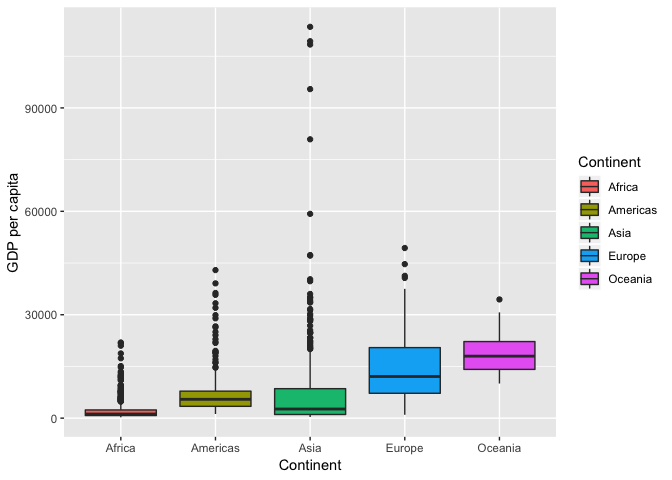
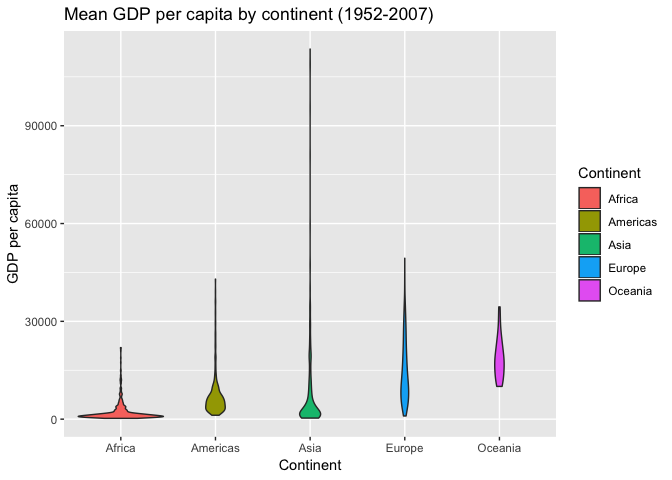
Finish assignment

diff --git a/Homework3CarolineSeip.md b/Homework3CarolineSeip.md
@@ -10,10 +10,17 @@ Table of contents
 -   Loading packages
 -   Task 1: Get the maximum and minimum of GDP per capita for all continents
 -   Task 2: How is life expectancy changing over time on different continents?
--   Task 3
--   But I want to do more!
+-   Task 3: Compute a weighted mean of life expectancy for different years
 
-First let's load the dataset, tidyverse and knitr
+Introduction
+============
+
+In this document we will explore the gapminder dataset by creating tables and figures of the relationships between different variables in the dataset. In the first task, we will find the maximum and minimum values of GDP per capita for each continent, and visualize the spread of GDP per capita values for each continent. For task 2 we will view how life expectancy for each continent have changed over time, and visualize this change using a line graph. In the final task we will compute a weighted mean of life expectancy for each year of data collection, weighted by the population of each country. We will then visualize what this looks like using a line graph.
+
+Loading packages
+================
+
+First let's load the dataset, tidyverse and knitr.
 
 ``` r
 #Load gapminder dataset
@@ -22,14 +29,14 @@ library(gapminder)
 library(tidyverse)
 ```
 
-    ## ── Attaching packages ─────────────────────────────── tidyverse 1.2.1 ──
+    ## ── Attaching packages ──────────────────────────────────────────── tidyverse 1.2.1 ──
 
     ## ✔ ggplot2 3.0.0     ✔ purrr   0.2.5
     ## ✔ tibble  1.4.2     ✔ dplyr   0.7.6
     ## ✔ tidyr   0.8.1     ✔ stringr 1.3.1
     ## ✔ readr   1.1.1     ✔ forcats 0.3.0
 
-    ## ── Conflicts ────────────────────────────────── tidyverse_conflicts() ──
+    ## ── Conflicts ─────────────────────────────────────────────── tidyverse_conflicts() ──
     ## ✖ dplyr::filter() masks stats::filter()
     ## ✖ dplyr::lag()    masks stats::lag()
 
@@ -41,22 +48,16 @@ library(knitr)
 Task 1: Get the maximum and minimum of GDP per capita for all continents
 ========================================================================
 
+Let's make a table of the minimum and maximum values of GDP per capita for each continent.
+
 ``` r
 #Use the gapminder dataset
 a <- gapminder %>% 
   #Group by continent
   group_by(continent) %>%
-  #Use mutate and summarize to create minimum and maximum variables
-  mutate_each(funs(round(.,2)), gdpPercap) %>% 
+  #Calculate the minimum and maximum GDP per capita for each continent
   summarize(min=min(gdpPercap),
             max=max(gdpPercap))
-```
-
-    ## `mutate_each()` is deprecated.
-    ## Use `mutate_all()`, `mutate_at()` or `mutate_if()` instead.
-    ## To map `funs` over a selection of variables, use `mutate_at()`
-
-``` r
 #Now put this into a table using the 'kable' function
 a %>% 
 kable(col.names = c("Continent", "Minimum GDP per capita", "Maximum GDP per capita"))
@@ -64,13 +65,13 @@ kable(col.names = c("Continent", "Minimum GDP per capita", "Maximum GDP per capi
 
 | Continent |  Minimum GDP per capita|  Maximum GDP per capita|
 |:----------|-----------------------:|-----------------------:|
-| Africa    |                  241.17|                21951.21|
-| Americas  |                 1201.64|                42951.65|
-| Asia      |                  331.00|               113523.13|
-| Europe    |                  973.53|                49357.19|
-| Oceania   |                10039.60|                34435.37|
+| Africa    |                241.1659|                21951.21|
+| Americas  |               1201.6372|                42951.65|
+| Asia      |                331.0000|               113523.13|
+| Europe    |                973.5332|                49357.19|
+| Oceania   |              10039.5956|                34435.37|
 
-Ok, now let's do a check to make sure that went right... let's look at the minimum GDP per capita for Oceania
+Ok, now let's do a check to make sure that went right... let's look at the minimum GDP per capita for Oceania as a check.
 
 ``` r
 #Use the gapminder dataset
@@ -98,48 +99,181 @@ gapminder %>%
 
 Yay it's right! We can see the GDP per capita for Australia in 1952 is 10040, which matches up with the summarize function we used to find the minimum GDP per capita in Oceania.
 
-Let's do a visual check by making a box plot to see the minimum and maximum values of GDP per capita by continent:
+Let's do a visual check by making a violin plot to see the minimum and maximum values of GDP per capita by continent:
 
 ``` r
   #Use ggplot, specify your dataset and aesthetics(x,y)
 ggplot(gapminder, aes(continent, gdpPercap)) +
   #Add a boxplot
-  geom_boxplot(aes(fill=continent)) +
+  geom_violin(aes(fill=continent)) +
   #Label the axes
   xlab("Continent") +
   ylab("GDP per capita") +
-  guides(fill=guide_legend(title= "Continent"))
+  #Change the legend title
+  guides(fill=guide_legend(title= "Continent")) +
+  #Add a title
+  ggtitle("Mean GDP per capita by continent (1952-2007)")
 ```
 
 ![](Homework3CarolineSeip_files/figure-markdown_github/unnamed-chunk-4-1.png)
 
+Here we can see again that the minimum GDP per capita value for Oceania is around the 10,000 line. The violin plot gives us a good idea of the spread of our data, because we can see how much data is at each level of GDP per capita, unlike with a box plot.
+
 Task 2: How is life expectancy changing over time on different continents?
 ==========================================================================
 
+First let's make a table of life expectancy values averaged by continent for each year.
+
 ``` r
 #Use the gapminder dataset
-long <- gapminder %>% 
+gapminder %>% 
   #Select the continent, year, and life expectancy variables
    select(continent, year, lifeExp) %>% 
   #Group by continent and year
   group_by(continent, year) %>% 
   #Find mean life expectancy for each continent, in each year
-  summarize(life = mean(lifeExp))
-
-wide <- spread(long, year, life)
-
-colnames(wide) <- c("continent", "first", "last")
+  summarize(life = mean(lifeExp)) %>% 
+#Use kable to make a table
+  kable(col.names = c("Continent", "Year", "Mean life expectancy"))
 ```
 
+| Continent |  Year|  Mean life expectancy|
+|:----------|-----:|---------------------:|
+| Africa    |  1952|              39.13550|
+| Africa    |  1957|              41.26635|
+| Africa    |  1962|              43.31944|
+| Africa    |  1967|              45.33454|
+| Africa    |  1972|              47.45094|
+| Africa    |  1977|              49.58042|
+| Africa    |  1982|              51.59287|
+| Africa    |  1987|              53.34479|
+| Africa    |  1992|              53.62958|
+| Africa    |  1997|              53.59827|
+| Africa    |  2002|              53.32523|
+| Africa    |  2007|              54.80604|
+| Americas  |  1952|              53.27984|
+| Americas  |  1957|              55.96028|
+| Americas  |  1962|              58.39876|
+| Americas  |  1967|              60.41092|
+| Americas  |  1972|              62.39492|
+| Americas  |  1977|              64.39156|
+| Americas  |  1982|              66.22884|
+| Americas  |  1987|              68.09072|
+| Americas  |  1992|              69.56836|
+| Americas  |  1997|              71.15048|
+| Americas  |  2002|              72.42204|
+| Americas  |  2007|              73.60812|
+| Asia      |  1952|              46.31439|
+| Asia      |  1957|              49.31854|
+| Asia      |  1962|              51.56322|
+| Asia      |  1967|              54.66364|
+| Asia      |  1972|              57.31927|
+| Asia      |  1977|              59.61056|
+| Asia      |  1982|              62.61794|
+| Asia      |  1987|              64.85118|
+| Asia      |  1992|              66.53721|
+| Asia      |  1997|              68.02052|
+| Asia      |  2002|              69.23388|
+| Asia      |  2007|              70.72848|
+| Europe    |  1952|              64.40850|
+| Europe    |  1957|              66.70307|
+| Europe    |  1962|              68.53923|
+| Europe    |  1967|              69.73760|
+| Europe    |  1972|              70.77503|
+| Europe    |  1977|              71.93777|
+| Europe    |  1982|              72.80640|
+| Europe    |  1987|              73.64217|
+| Europe    |  1992|              74.44010|
+| Europe    |  1997|              75.50517|
+| Europe    |  2002|              76.70060|
+| Europe    |  2007|              77.64860|
+| Oceania   |  1952|              69.25500|
+| Oceania   |  1957|              70.29500|
+| Oceania   |  1962|              71.08500|
+| Oceania   |  1967|              71.31000|
+| Oceania   |  1972|              71.91000|
+| Oceania   |  1977|              72.85500|
+| Oceania   |  1982|              74.29000|
+| Oceania   |  1987|              75.32000|
+| Oceania   |  1992|              76.94500|
+| Oceania   |  1997|              78.19000|
+| Oceania   |  2002|              79.74000|
+| Oceania   |  2007|              80.71950|
+
+This table allows us to look at the exact value for any given year, but it is not great for visualizing the change in life expectancy over time. Let's make a line graph now so that we can visualize this change.
+
 ``` r
+#Use the gapminder dataset
 gapminder %>%
+  #Indicate ggplot and set the x and y variables using aesthetics
   ggplot(aes(year, lifeExp)) +
+  #Add a smooth line to the plot, turn off the standard error bars, and colour the lines by continent
   geom_smooth(se= FALSE, aes(colour= continent)) +
+  #Add x and y labels, and a title
   xlab("Year") +
   ylab("Life expectancy (years)") +
-  guides(fill=guide_legend(title= "Continent"))
+  ggtitle("Life expectancy by continent (1952-2007)")
 ```
 
     ## `geom_smooth()` using method = 'loess' and formula 'y ~ x'
 
 ![](Homework3CarolineSeip_files/figure-markdown_github/unnamed-chunk-6-1.png)
+
+This graph shows the trend of life expectancy over time much better than the table of values does. We can see that life expectancies for all continents continually increased over time, but that Africa's life expectancy has levelled off since the 1980s at under 55 years old.
+
+Task 3: Compute a weighted mean of life expectancy for different years
+======================================================================
+
+Let's start by calculating the weighted mean using the 'weighted.mean' function, and making a table of the values.
+
+``` r
+#Use the gapminder dataset
+gapminder %>% 
+  #Group by year
+  group_by(year) %>% 
+  #Compute a weighted mean of life expectancy, weighting by population
+  summarize(wm=weighted.mean(lifeExp, pop)) %>% 
+
+  #Create a table of the weighted life expectancy values
+  kable(col.names = c("Year", "Mean life expectancy weighted by population (years)"))
+```
+
+|  Year|  Mean life expectancy weighted by population (years)|
+|-----:|----------------------------------------------------:|
+|  1952|                                             48.94424|
+|  1957|                                             52.12189|
+|  1962|                                             52.32438|
+|  1967|                                             56.98431|
+|  1972|                                             59.51478|
+|  1977|                                             61.23726|
+|  1982|                                             62.88176|
+|  1987|                                             64.41635|
+|  1992|                                             65.64590|
+|  1997|                                             66.84934|
+|  2002|                                             67.83904|
+|  2007|                                             68.91909|
+
+The weighted mean gives a better picture of the average worldwide life expectancy for each year, because it gives equal value to each person on the planet, rather than biasing the mean based on country.
+
+Let's visualize the data using a line graph.
+
+``` r
+#Pipe the previous function into a ggplot
+gapminder %>% 
+  group_by(year) %>% 
+  summarize(wm=weighted.mean(lifeExp, pop)) %>% 
+  #Create a plot specifying the x and y aesthetics
+  ggplot(aes(year, wm)) +
+  #Add a smooth line, remove standard error bars
+  geom_smooth(se=FALSE) +
+  #Add x and y labels, and a title
+  xlab("Year") +
+  ylab("Mean life expectancy weighted by population (years)") +
+  ggtitle("Worldwide life expectancy (1952-2007)")
+```
+
+    ## `geom_smooth()` using method = 'loess' and formula 'y ~ x'
+
+![](Homework3CarolineSeip_files/figure-markdown_github/unnamed-chunk-8-1.png)
+
+Here we can see that worldwide life expectancy has been increasing since 1952. The trend has slightly levelled off since the 1970s, representing that there is a maximum life expectancy that is being approached.
